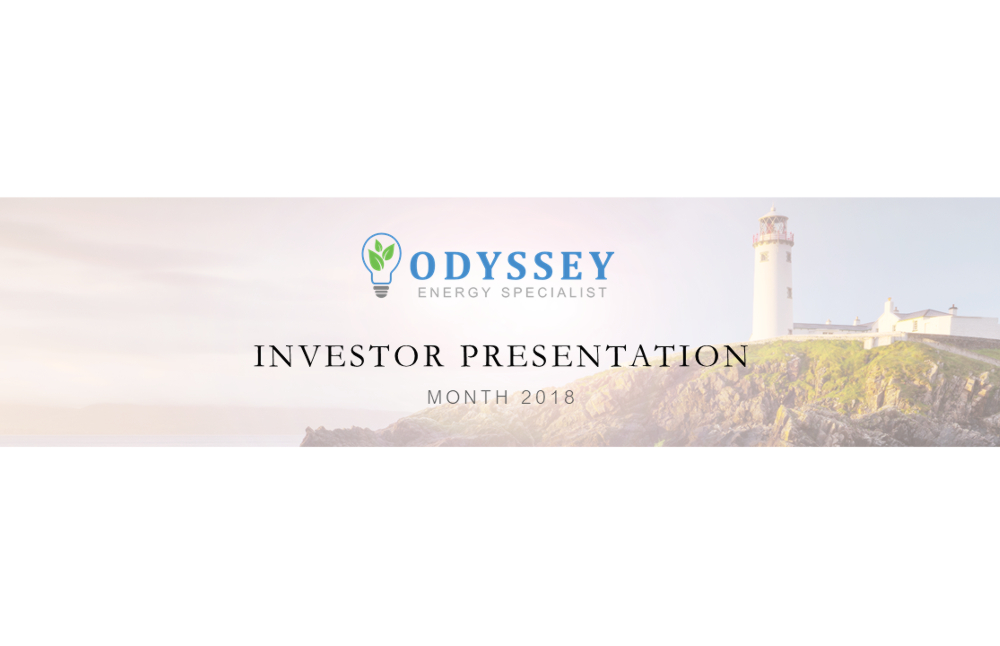
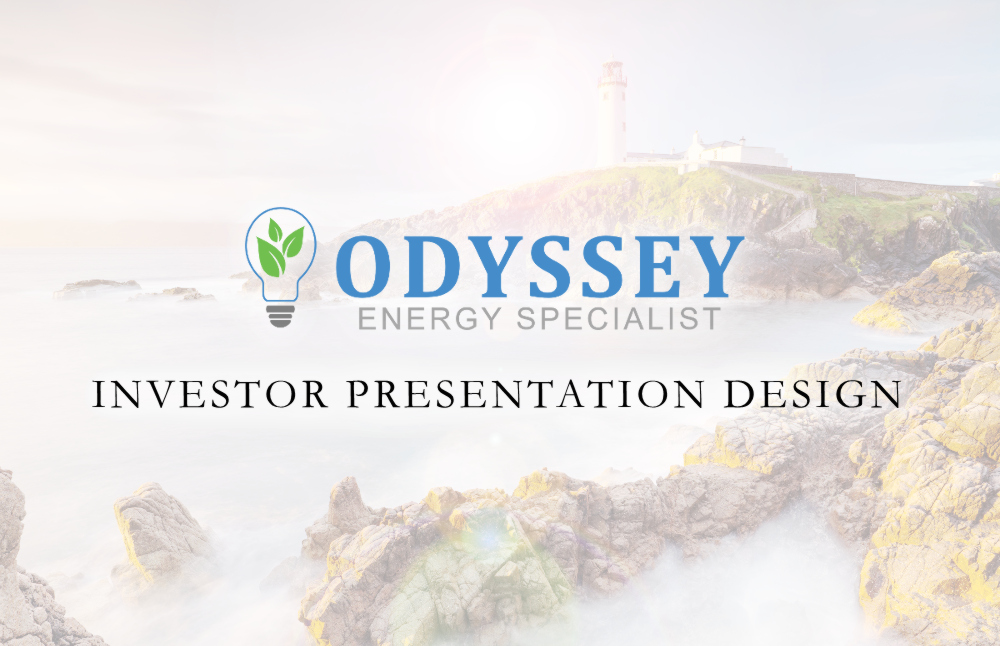
Updates to Odyssey Presenation: All Slides and links

diff --git a/_posts/powerpoint/2018-03-14-pptodys.md b/_posts/powerpoint/2018-03-14-pptodys.md
@@ -31,10 +31,54 @@ image:
 The slides below are sample slides from a PowerPoint template designed for a startup company that focuses on implementing energy efficient solutions. The content is generic, and a "place holder" logo has been used in place of the company's actual logo.
 
 
-<!--Title Slide-->
+<!--Slide 01: Title Slide-->
 ##### Title Slide
 <p style="margin:0;"><img src="{{ site.urlimg }}99ppt_odys_zslide01.jpg" alt=""></p>
+<p><a href="https://unsplash.com/photos/3Ub-gXhLE6Y"><small>Graphic by Jim Farrell | Photo by Steven Hanna - Unsplash.</small></a></p>
+
+<!--Slide 02: Title Slide-->
+##### Value Statement | Elevator Speech
+<p style="margin:0;"><img src="{{ site.urlimg }}99ppt_odys_zslide02.jpg" alt=""></p>
+{::comment}<p style="margin:0;"><a href="https://unsplash.com/photos/1nBvotYiZQI"><small>Photo by Tommi Saltiola - Unsplash.</small></a></p>{:/comment}
+
+<!--Slide 03: Title Slide-->
+##### Table of Contents
+<p style="margin:0;"><img src="{{ site.urlimg }}99ppt_odys_zslide03.jpg" alt=""></p>
+{::comment}<p style="margin:0;"><a href="https://unsplash.com/photos/U1POHKqXYKs"><small>Photo by Ruston Youngblood - Unsplash.</small></a></p>{:/comment}
+
+<!--Slide 04: Title Slide-->
+##### Dilemma Clients are Facing About Energy Decisions
+<p style="margin:0;"><img src="{{ site.urlimg }}99ppt_odys_zslide04.jpg" alt=""></p>
+{::comment}<p style="margin:0;"><a href="https://unsplash.com/photos/jw3GOzxiSkw"><small>Photo by Rohan Makhecha - Unsplash.</small></a></p>{:/comment}
+
+<!--Slide 05: Title Slide-->
+##### Conceptual Overview of Odyssey's Solution
+<p style="margin:0;"><img src="{{ site.urlimg }}99ppt_odys_zslide05.jpg" alt=""></p>
+{::comment}<p style="margin:0;"><a href="https://pixabay.com/en/bulb-light-recycle-water-green-2587637/"><small>Photo by StockSnap - Unsplash.</small></a></p>{:/comment}
+
+<!--Slide 06: Title Slide-->
+##### Solution Benefits for a Specific Market Segment
+<p style="margin:0;"><img src="{{ site.urlimg }}99ppt_odys_zslide06.jpg" alt=""></p>
 {::comment}<p style="margin:0;"><a href="https://unsplash.com/@andybeales"><small>Photo by @andybeales - Unsplash.</small></a></p>{:/comment}
+
+<!--Slide 07: Title Slide-->
+##### Highlights, Milestones & Awards (Traction)
+<p style="margin:0;"><img src="{{ site.urlimg }}99ppt_odys_zslide07.jpg" alt=""></p>
+{::comment}<p style="margin:0;"><a href="https://pixabay.com/en/germany-vineyards-landscape-scenic-1751443/"><small>Photo by 12019 - Unsplash.</small></a></p>{:/comment}
+
+<!--Slide 08: Title Slide-->
+##### Market Position & Competitive Advantage
+<p style="margin:0;"><img src="{{ site.urlimg }}99ppt_odys_zslide08.jpg" alt=""></p>
+{::comment}<p style="margin:0;"><a href="https://unsplash.com/photos/1527pjeb6jg"><small>Photo by Samuel Ferrara - Unsplash.</small></a></p>{:/comment}
+
+<!--Slide 09: Title Slide-->
+##### Financials Projection Table
+<p style="margin:0;"><img src="{{ site.urlimg }}99ppt_odys_zslide09.jpg" alt=""></p>
+
+<!--Slide 10: Title Slide-->
+##### Contact Slide
+<p style="margin:0;"><img src="{{ site.urlimg }}99ppt_odys_zslide10.jpg" alt=""></p>
+<p><a href="https://unsplash.com/photos/3Ub-gXhLE6Y"><small>Graphic by Jim Farrell | Photo by Steven Hanna - Unsplash.</small></a></p>
 
 ### More PowerPoint Posts
 {: .t60 }
